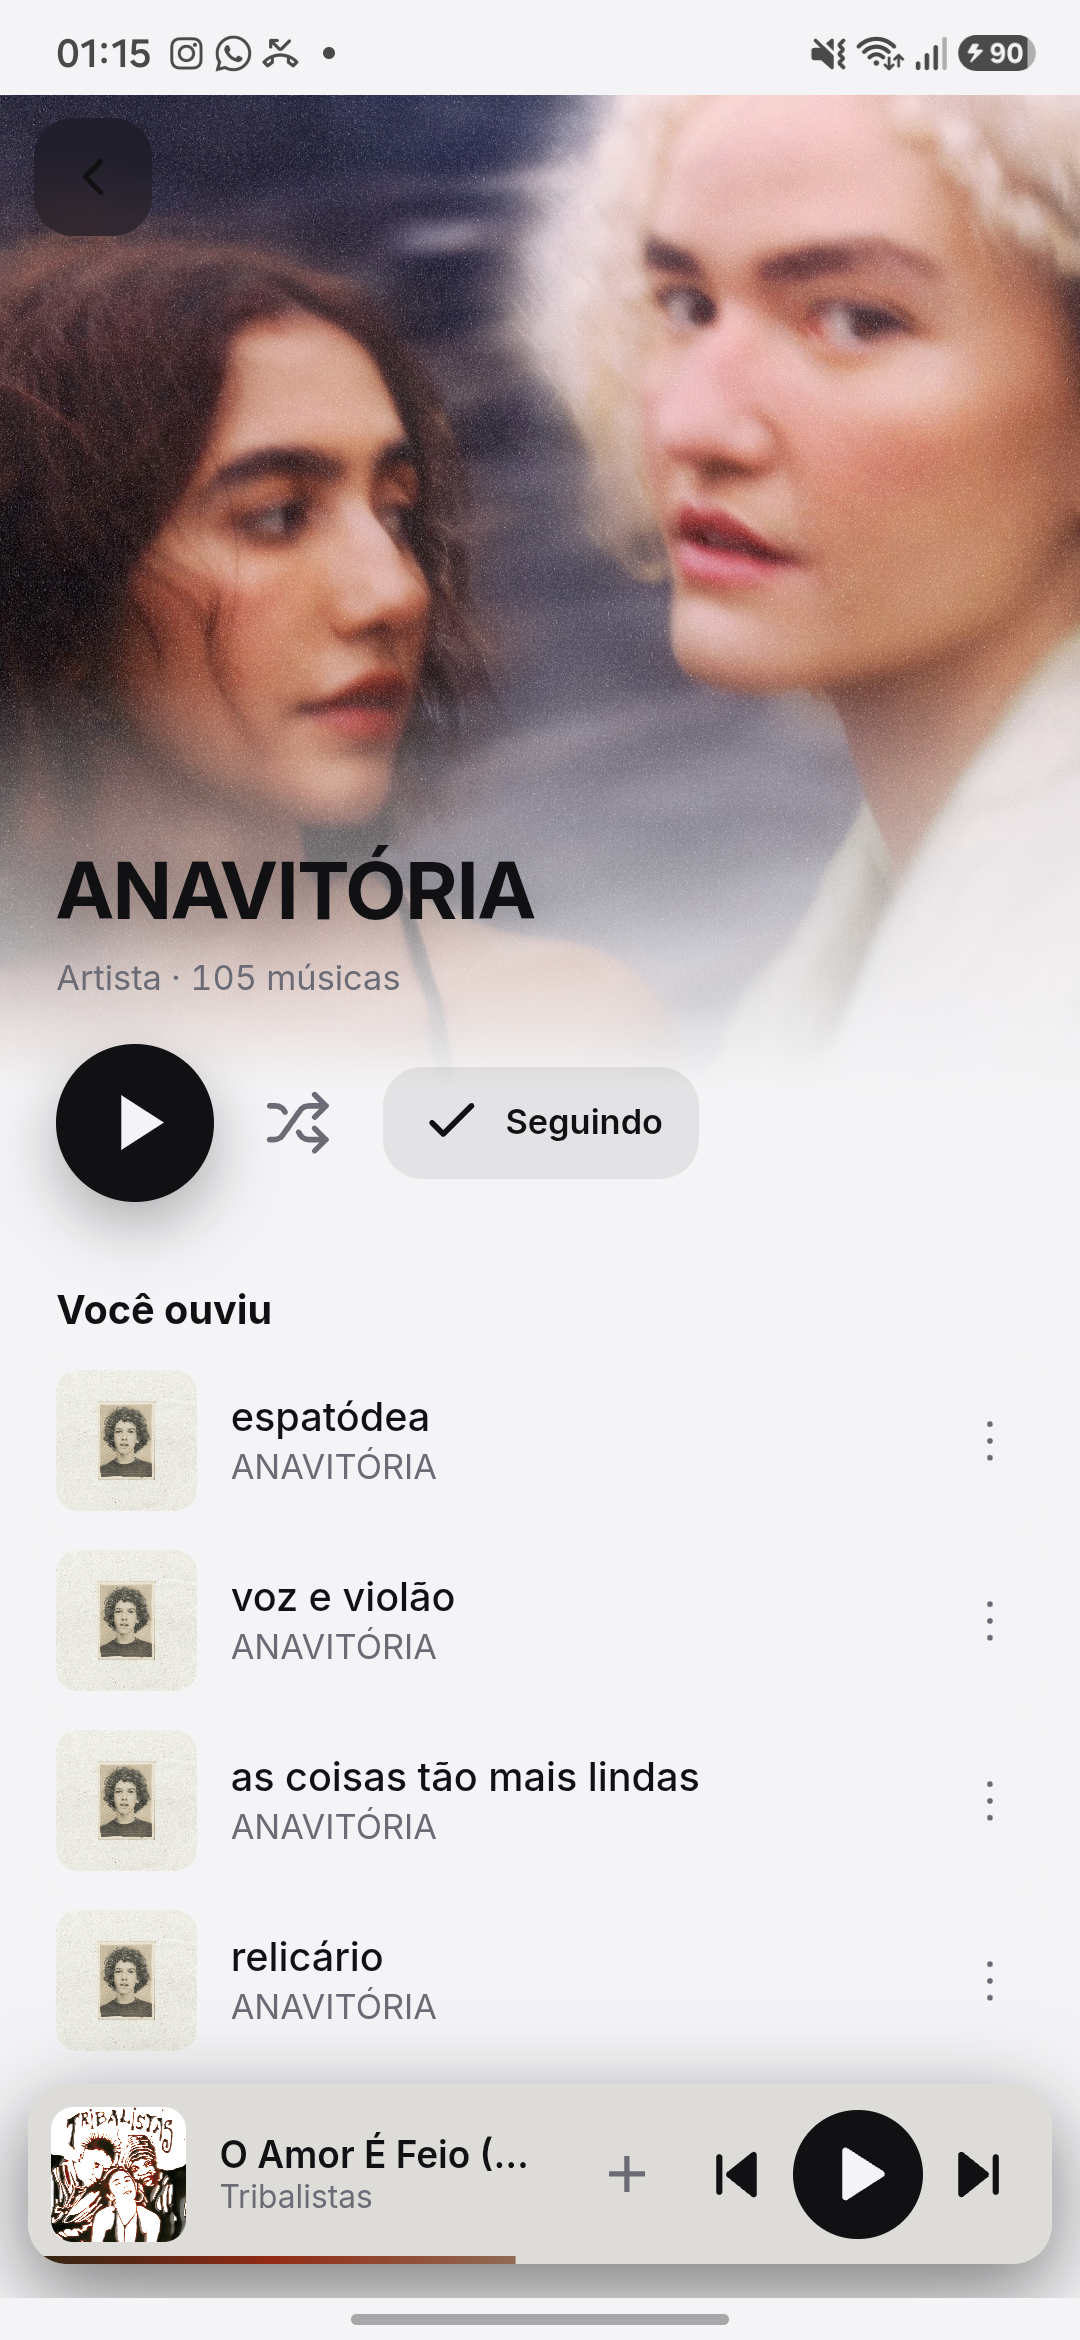
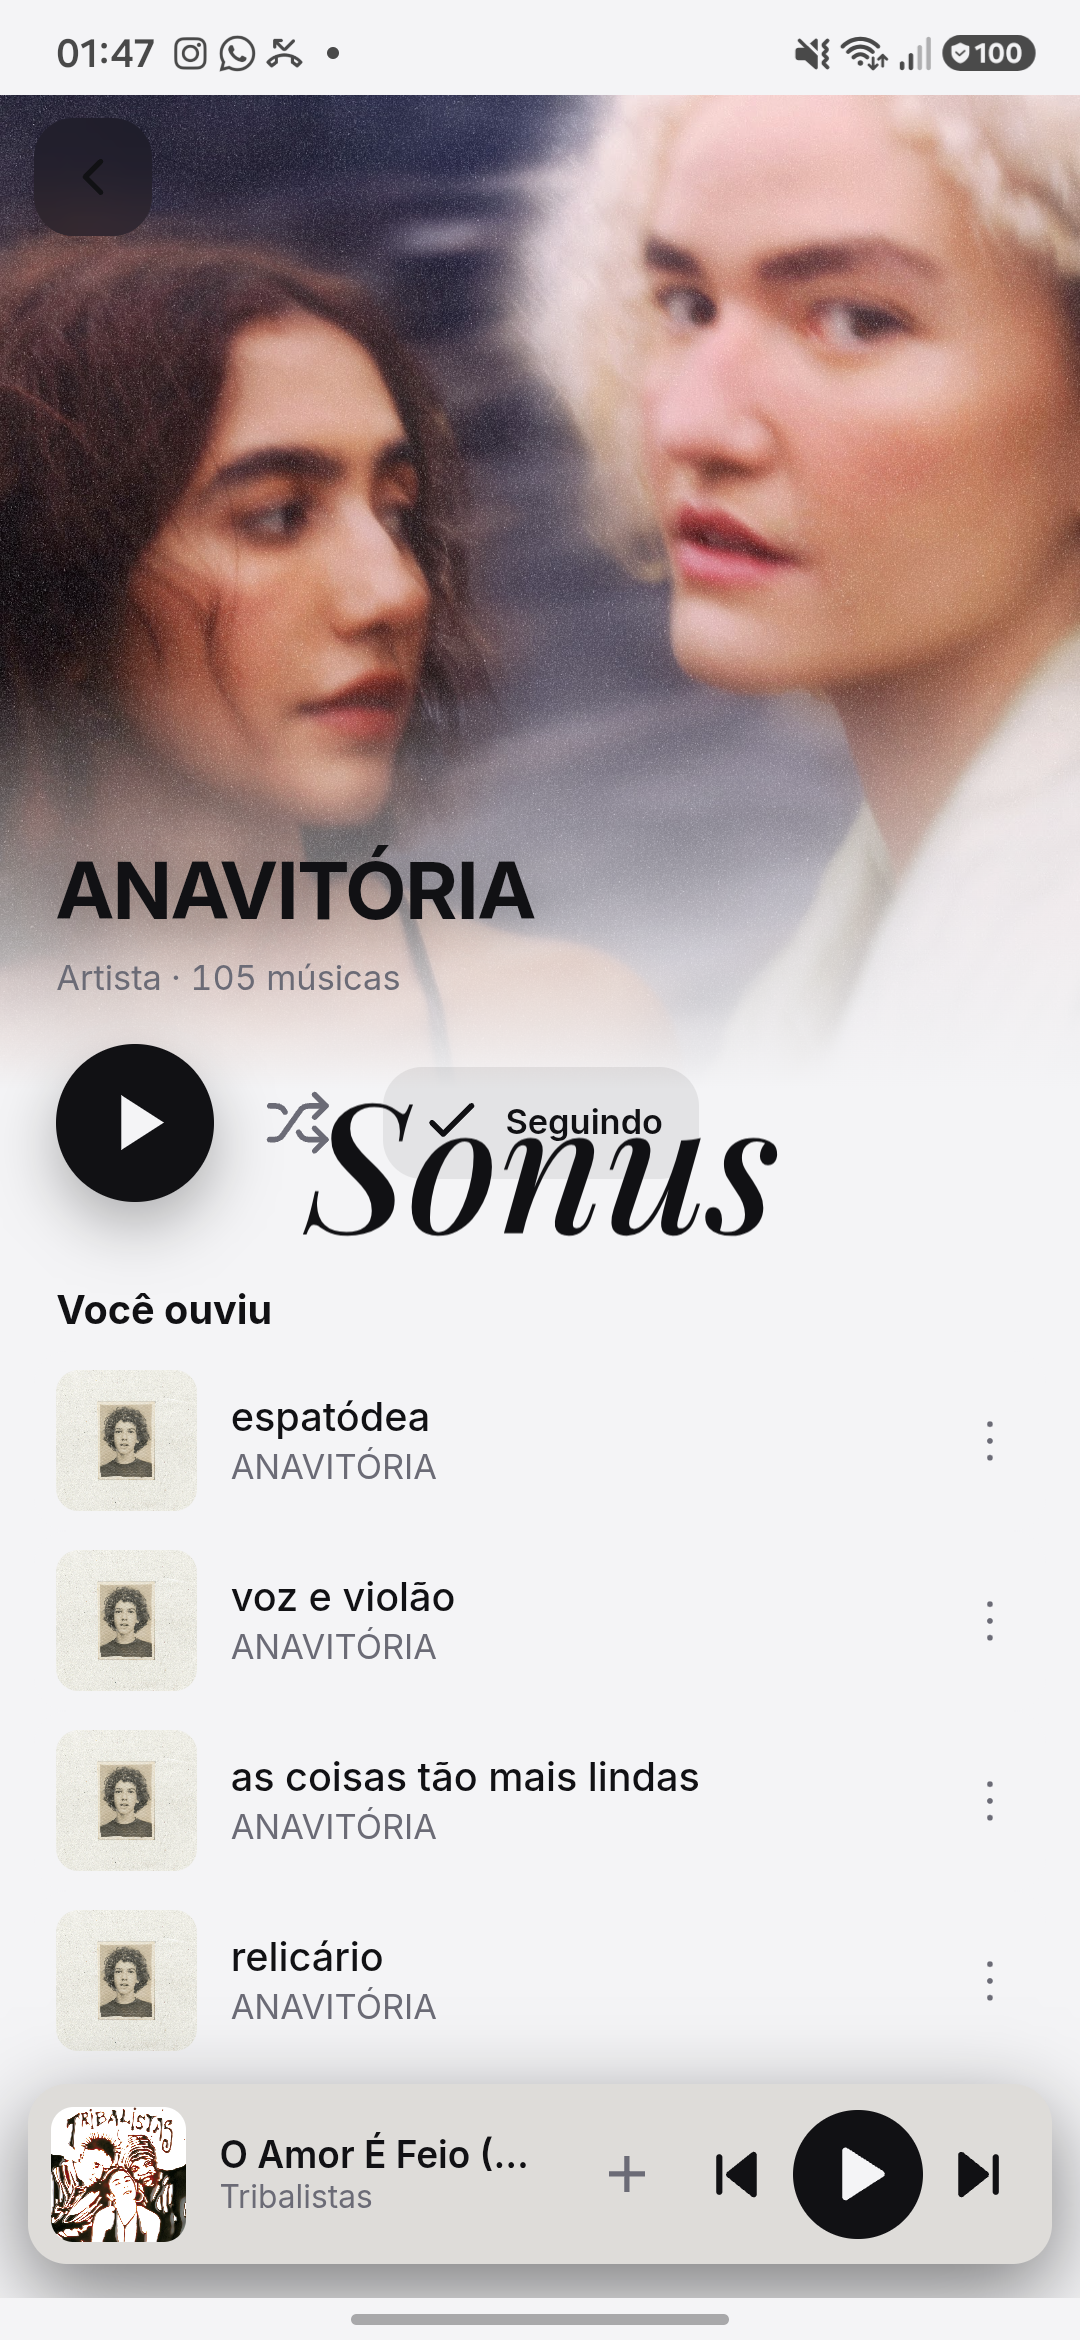
Artista: validação final (seguir, ⋮, voltar, catálogo completo, barras do sistema)

Changed region(s): [[0.275, 0.4679, 0.7333, 0.5303], [0.7333, 0.0, 0.9472, 0.0312], [0.0917, 0.0, 0.275, 0.0312]]

diff --git a/prototype/pages.js b/prototype/pages.js
@@ -20,25 +20,38 @@ window.SounosPages = (() => {
     catch { return canonicalUrl(raw); }
   };
   const ARTIST_PAGE_CACHE = "sounos.artistPageCache";
+  const compactArtistPageCache = cache => {
+    let changed = false;
+    for (const [id, item] of Object.entries(cache)) if (Array.isArray(item?.items)) {
+      const items = item.items.map(t => {
+        if (!Object.hasOwn(t, "thumbs")) return t;
+        changed = true;
+        const { thumbs, ...track } = t;
+        return track;
+      });
+      if (changed) cache[id] = { ...item, items };
+    }
+    return changed;
+  };
+  let artistPageCache = {};
+  try {
+    artistPageCache = JSON.parse(localStorage.getItem(ARTIST_PAGE_CACHE) || "{}");
+    if (!artistPageCache || Array.isArray(artistPageCache) || typeof artistPageCache !== "object") artistPageCache = {};
+    if (compactArtistPageCache(artistPageCache)) localStorage.setItem(ARTIST_PAGE_CACHE, JSON.stringify(artistPageCache));
+  } catch { artistPageCache = {}; }
   const readArtistPageCache = name => {
-    try {
-      const saved = JSON.parse(localStorage.getItem(ARTIST_PAGE_CACHE) || "{}");
-      const item = saved[key(name)];
-      return item && Array.isArray(item.items) ? { ...item, isCached: true, fromLocalCache: true } : null;
-    } catch { return null; }
+    const item = artistPageCache[key(name)];
+    return item && Array.isArray(item.items) ? { ...item, isCached: true, fromLocalCache: true } : null;
   };
   const saveArtistPageCache = (name, result) => {
     if (!Array.isArray(result?.items)) return;
     try {
-      const saved = JSON.parse(localStorage.getItem(ARTIST_PAGE_CACHE) || "{}");
       const id = key(name);
-      const compact = items => items.map(t => {
-        const { thumbs, ...track } = t;
-        return track;
-      });
-      saved[id] = { name: result.name || name, thumb: result.thumb || "", items: compact(result.items), at: Date.now() };
-      const keep = Object.fromEntries(Object.entries(saved).sort((a, b) => (b[1]?.at || 0) - (a[1]?.at || 0)).slice(0, 4));
-      localStorage.setItem(ARTIST_PAGE_CACHE, JSON.stringify(keep));
+      const items = result.items.map(t => { const { thumbs, ...track } = t; return track; });
+      artistPageCache[id] = { name: result.name || name, thumb: result.thumb || "", items, at: Date.now() };
+      compactArtistPageCache(artistPageCache);
+      artistPageCache = Object.fromEntries(Object.entries(artistPageCache).sort((a, b) => (b[1]?.at || 0) - (a[1]?.at || 0)).slice(0, 4));
+      localStorage.setItem(ARTIST_PAGE_CACHE, JSON.stringify(artistPageCache));
     } catch {}
   };
   const fmtTotal = s => { const m = Math.round(s / 60); return m >= 60 ? `${Math.floor(m / 60)} h ${m % 60} min` : `${m} min`; };
@@ -90,7 +103,8 @@ window.SounosPages = (() => {
     page.d = (history.state?.d || 0) + 1;
     history.pushState({ ...(history.state || {}), page: kind, d: page.d }, "");
     if (window.__playerOpen) window.__playerShell?.lowerForPage?.();
-    requestAnimationFrame(() => requestAnimationFrame(() => el.classList.add("open")));
+    void el.offsetWidth; // fixa o estado fora da tela; a próxima moldura já inicia a animação
+    requestAnimationFrame(() => el.classList.add("open"));
     swipeToClose(page);
     return page;
   }
@@ -472,7 +486,12 @@ window.SounosPages = (() => {
     let songs = [], albums = [], showAllSongs = false, artistThumb = artistInfo.thumb || "", artistCatalogSignature = "";
     const localCatalog = readArtistPageCache(name);
     // primeiro o que já se sabe (histórico), depois o resto da rede
-    const hist = (() => { try { return (Sounos.call("getHistory") || []).map(e => e.track).filter(Sounos.isSong); } catch { return []; } })();
+    const hist = (() => {
+      try {
+        const tracks = window.__sounosHistoryTracks;
+        return (Array.isArray(tracks) ? tracks : (Sounos.call("getHistory") || []).map(e => e.track)).filter(Sounos.isSong);
+      } catch { return []; }
+    })();
     const mine = []; hist.forEach(t => { if (key(t.artist) === key(name) && !mine.some(m => m.id === t.id)) mine.push(t); });
 
     el.innerHTML = `<div class="hero" style="background:var(--surface)"><div class="img" style="background-image:url('${photoUrl.replace(/'/g, "%27")}')"></div></div>

diff --git a/android/app/src/main/kotlin/app/sounos/MainActivity.kt b/android/app/src/main/kotlin/app/sounos/MainActivity.kt
@@ -19,6 +19,7 @@ import android.webkit.WebResourceRequest
 import android.webkit.WebResourceResponse
 import android.webkit.WebView
 import android.webkit.WebViewClient
+import androidx.core.view.WindowInsetsControllerCompat
 import app.sounos.extractor.CoverStore
 import app.sounos.extractor.Thumb
 import app.sounos.extractor.Track
@@ -63,6 +64,8 @@ class MainActivity : Activity() {
             settings.javaScriptEnabled = true
             settings.domStorageEnabled = true
             settings.allowFileAccess = false
+            // Assets locais mudam junto com o APK; o cache do WebView sobrevive à atualização do app.
+            settings.cacheMode = android.webkit.WebSettings.LOAD_NO_CACHE
             webViewClient = AssetClient()
             webChromeClient = object : android.webkit.WebChromeClient() {
                 // "trocar capa" da playlist: abre a galeria do celular
@@ -152,16 +155,9 @@ class MainActivity : Activity() {
         // Materialize o DecorView antes de pedir o InsetsController. No splash, onCreate ainda
         // não passou por setContentView e PhoneWindow.insetsController pode falhar com DecorView nulo.
         val decor = window.decorView
-        if (Build.VERSION.SDK_INT >= Build.VERSION_CODES.R) {
-            val mask = android.view.WindowInsetsController.APPEARANCE_LIGHT_STATUS_BARS or
-                android.view.WindowInsetsController.APPEARANCE_LIGHT_NAVIGATION_BARS
-            val appearance = if (theme == "light") mask else 0
-            window.insetsController?.setSystemBarsAppearance(appearance, mask)
-        } else if (Build.VERSION.SDK_INT >= Build.VERSION_CODES.O) {
-            @Suppress("DEPRECATION")
-            decor.systemUiVisibility = if (theme == "light") {
-                android.view.View.SYSTEM_UI_FLAG_LIGHT_STATUS_BAR or android.view.View.SYSTEM_UI_FLAG_LIGHT_NAVIGATION_BAR
-            } else 0
+        WindowInsetsControllerCompat(window, decor).apply {
+            isAppearanceLightStatusBars = theme == "light"
+            isAppearanceLightNavigationBars = theme == "light"
         }
         if (::web.isInitialized) {
             web.setBackgroundColor(color)

diff --git a/prototype/home-native.js b/prototype/home-native.js
@@ -27,6 +27,7 @@
   function renderHome() {
     const hist = Sounos.call("getHistory");
     const list = (Array.isArray(hist) ? hist : []).filter(e => Sounos.isSong(e.track));      // vídeos ouvidos antes não aparecem
+    window.__sounosHistoryTracks = list.map(e => e.track);
     const mineData = Sounos.call("getMineTracks");
     const downloaded = Array.isArray(mineData.downloaded) ? mineData.downloaded : [];
     downloadedTracks = downloaded;

diff --git a/docs/artista/validacao.md b/docs/artista/validacao.md
@@ -1,0 +1,45 @@
+# Validação da página do artista
+
+Dispositivo: Samsung Galaxy A54, Android 15. APK `Sunshine Beta 1.0`, `versionCode=10`.
+
+## Catálogo e cache
+
+O cache local foi testado após fechar e reabrir o app. Na reabertura de ANAVITÓRIA, o primeiro catálogo local mostrou `105 músicas`, 20 linhas principais e zero placeholders; conteúdo estabilizado apareceu em **143 ms** (cache completo do WebView local/nativo) e, na visita seguinte com cache atualizado, em **72 ms** (55 ms até os dados, 5 músicas ouvidas e zero placeholders). **Ver todas** mostrou 100 faixas do catálogo e 5 faixas ouvidas, total de 105; o cache guardou 104 itens do catálogo.
+
+Djavan abriu em **73 ms** com cache, 20 linhas e 5 músicas ouvidas. Após atualizar o catálogo nativo, **Ver todas** mostrou 99 músicas do catálogo e 5 ouvidas, total de 104; o catálogo oficial retornou 103 faixas únicas, com uma faixa histórica adicional.
+
+Comparação com o catálogo oficial do YouTube Music. Os números de origem vêm das respostas `Top songs` paginadas e das abas de álbuns/singles do próprio YouTube Music; a contagem final remove títulos normalizados duplicados quando as durações também são próximas. As páginas não exibem um total agregado de faixas, então o comparativo abaixo usa as faixas únicas obtidas dessas seções.
+
+| Artista / página oficial | Top songs retornadas | Faixas de álbuns e singles | Total único no catálogo | Total exibido no Sonus |
+| --- | ---: | ---: | ---: | ---: |
+| [Djavan](https://music.youtube.com/channel/UCpHj6Odxfl5ufOKZ8CmLX0A) | 100 | 15 referências / 15 faixas | 103 | 104 |
+| [Tribalistas](https://music.youtube.com/channel/UCOTV5IMHu8f2buB1mFGWeBg) | 55 | 13 referências | 49 | 49 |
+| [ANAVITÓRIA](https://music.youtube.com/channel/UCDARE-4OotSQ2uHFla-zNvA) | 100 | 39 faixas | 104 | 105 |
+
+ANAVITÓRIA mostra uma faixa adicional no Sonus porque uma música ouvida no aparelho não aparece no catálogo atual do canal; a deduplicação por título e duração mantém esse histórico sem duplicar as faixas do YouTube Music.
+
+## Seguir e rádio
+
+Na página de ANAVITÓRIA, o botão alternou imediatamente entre `Seguir` e `Seguindo`. Ao deixar de seguir, Djavan passou para a primeira posição em “Seus artistas”; ao seguir de novo, ANAVITÓRIA voltou para a primeira. O JSON nativo de `sounos.following` coincidiu com o localStorage. Após forçar o fechamento e reabrir o app, os dois artistas seguidos continuaram na lista e ANAVITÓRIA permaneceu primeiro.
+
+Com o rádio de Tribalistas aberto e ANAVITÓRIA e Djavan seguidos, as 12 sugestões tiveram IDs únicos. “Lisboa” (ANAVITÓRIA) apareceu na posição 5 e “Um Amor Puro” (Djavan) na posição 10, uma faixa seguida a cada cinco sugestões quando disponível.
+
+## Toque e retorno
+
+No toque pressionado de `⋮` em uma faixa de Djavan, o WebView reportou o botão ativo e a linha ativa; a cor calculada da linha ficou igual ao fundo claro (`rgb(244, 244, 246)`), enquanto o botão recebeu o realce arredondado (`rgba(0, 0, 0, 0.04)`). A captura [track-menu-pressed.png](track-menu-pressed.png) mostra o quadrado no botão sem acender a linha.
+
+Na busca por Djavan havia 20 linhas de música, 7 artistas e 12 álbuns. Depois de abrir o artista e voltar pelo botão Android, a busca permaneceu aberta com a mesma consulta, 20 músicas, 7 artistas, 12 álbuns e `scrollTop=419,91`; foram observadas transições de saída e entrada em `transform`. Abrindo “Djavan (Ao Vivo)” e voltando pela seta, a busca e a rolagem `419,91` também foram preservadas. Abrindo Tribalistas pelo artista no player e voltando pela seta, a página do player continuou aberta (`player-open`) e a saída da página também transitou em `transform`.
+
+## Capturas
+
+- [Página de Djavan](artista-djavan.png)
+- [Página seguida de ANAVITÓRIA](artista-seguindo-anavitoria.png)
+- [Tema claro](tema-claro.png)
+- [Tema escuro](tema-escuro.png)
+- [Tema gradiente](tema-gradiente.png)
+
+Pixels centrais das barras nas capturas: claro `#f4f4f6` (status e navegação), escuro `#0e0e10` (ambas), gradiente `#201a11` (status, acompanha o topo) e `#261e1b` (navegação, acompanha a base). Os ícones foram claros nos dois temas escuros e escuros no claro.
+
+## Build
+
+Build limpo com `JAVA_HOME=~/Android/jdk17 ./gradlew clean assembleDebug --no-build-cache -PversionCode=10`. A opção `--no-build-cache` evita reutilizar classes Kotlin antigas de outra árvore de trabalho. A configuração do WebView também ignora o cache de assets locais, que sobrevive à atualização do APK. O APK exibiu `versionName=0.1.1.0` e `versionCode=10`; abriu em estado frio em 1,56 s. A compilação limpa e os testes do extrator passaram.
